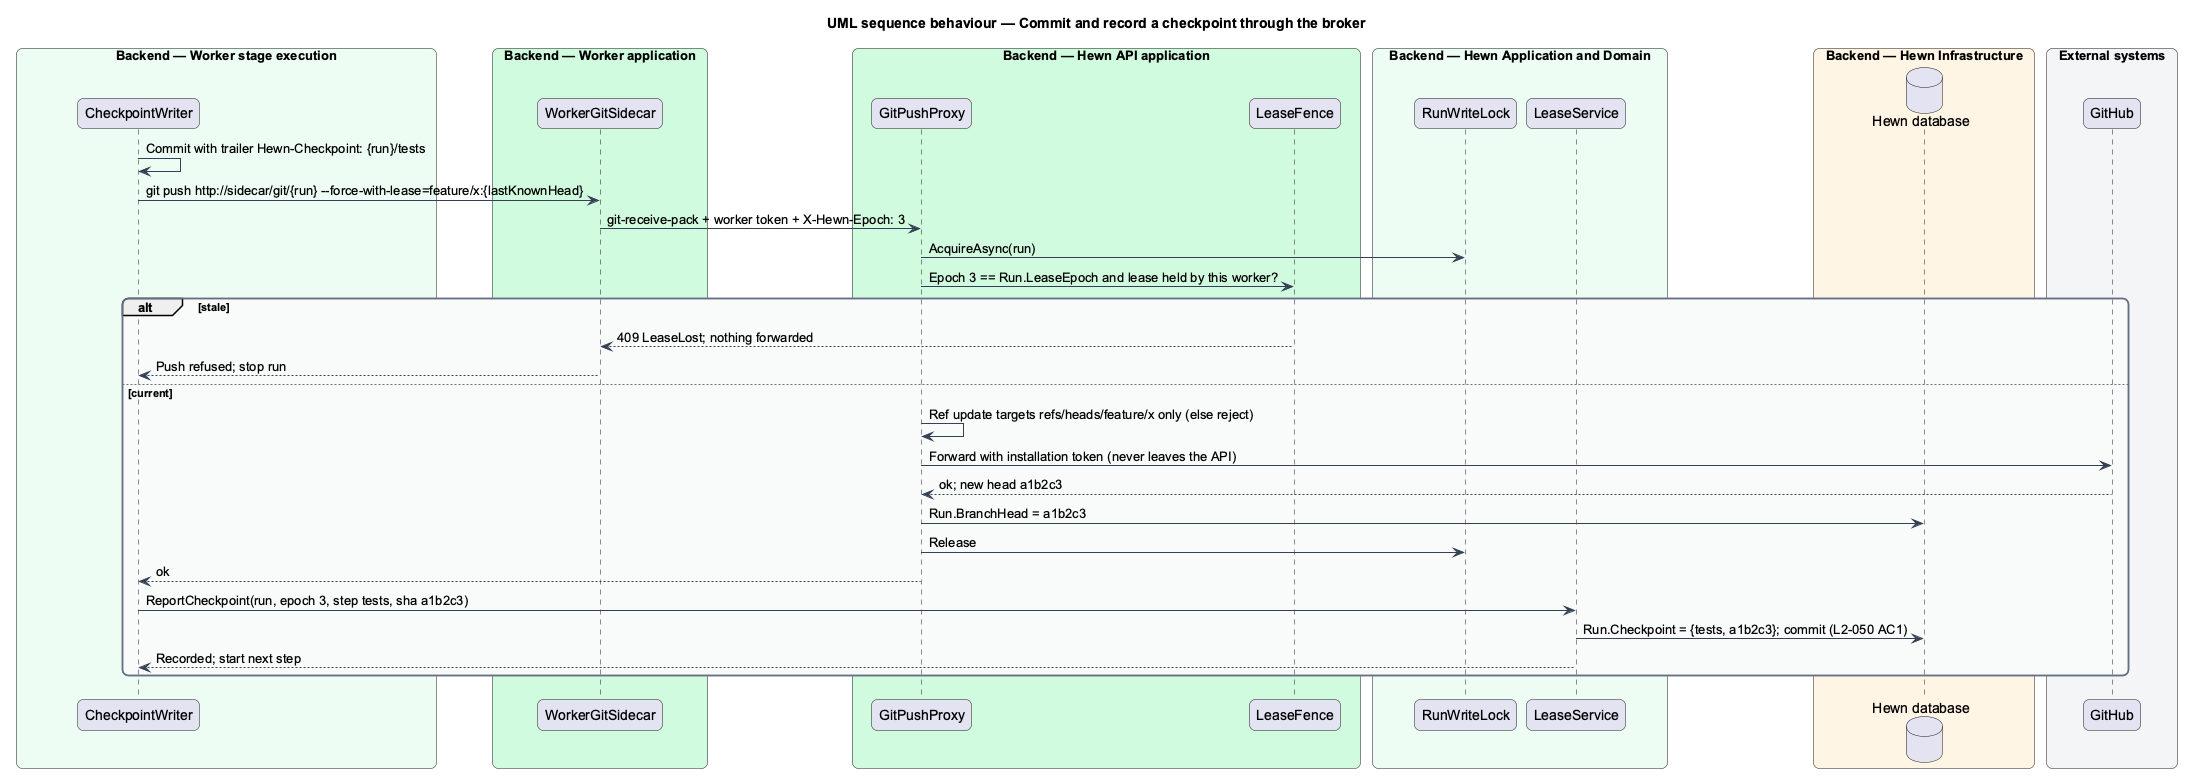
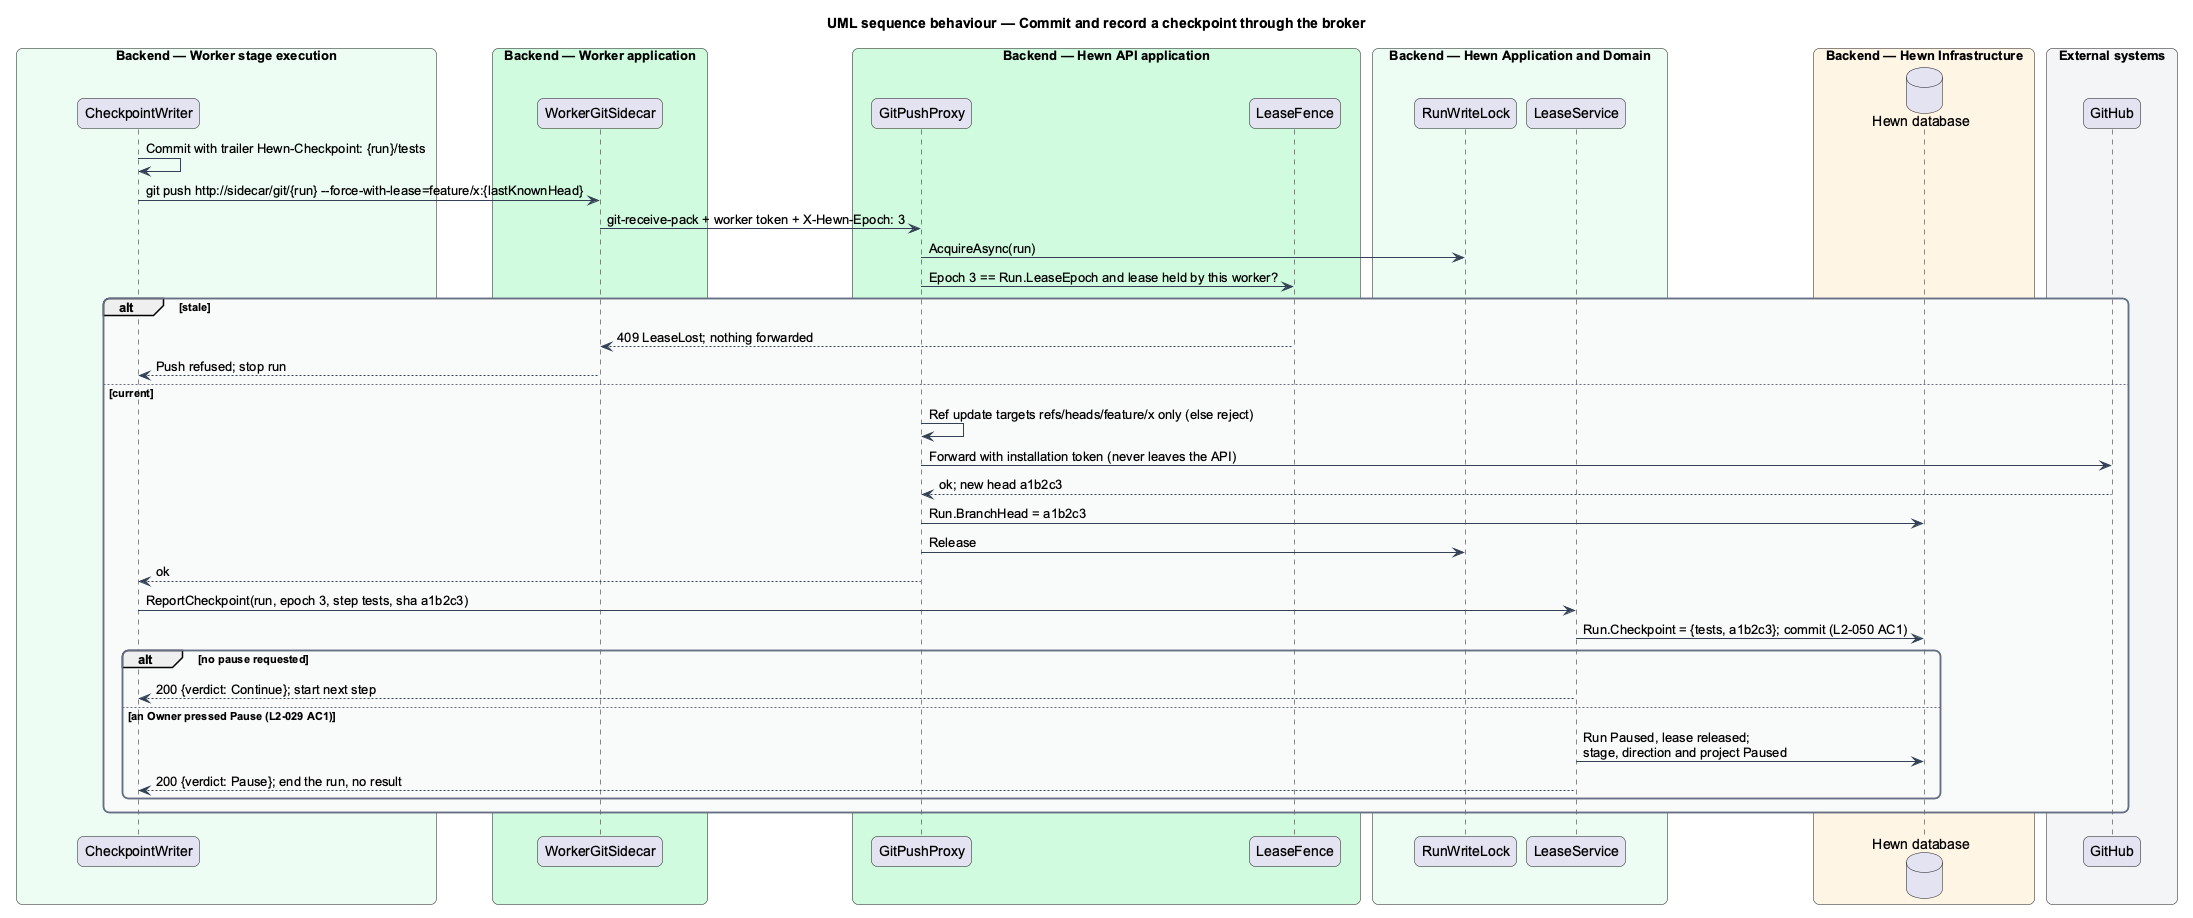
Record Pause at the checkpoint in the designs, ADR 0011 and the changelog
ADR 0011: Pause is a request on the direction that the worker's next
checkpoint answers, instead of a control channel that Cancel and Stop
all will need. The pause-resume and checkpoint sequences show the
checkpoint's verdict and the re-queued run; both designs record what
journey 6 built and what it leaves to journeys 7 and 8.

Traces to: L2-029, L2-050

diff --git a/docs/adr/0011-pause-takes-effect-at-the-next-checkpoint.md b/docs/adr/0011-pause-takes-effect-at-the-next-checkpoint.md
@@ -1,0 +1,54 @@
+# 0011. Pause takes effect at the next checkpoint, answered on the checkpoint call
+
+- **Status:** Accepted
+- **Date:** 2026-11-09
+- **Requirements:** L2-029, L2-050
+
+## Context
+
+L2-029 AC1 asks that, when an Owner presses Pause, the current step finishes, the direction becomes Paused and
+nothing new starts until Resume; AC2 that Resume continues from the next step. L2-050 AC3 asks that no completed
+step runs twice. The pause-resume-cancel-stop design sends a `PauseAfterStep` message over a `WorkerControlChannel`
+on the worker's SignalR connection. That channel does not exist yet: workers speak HTTP and poll (journey 1, part 2),
+and the worker already reports a checkpoint to the API at the end of every step.
+
+## Decision
+
+- **Pause is a request recorded on the direction.** `POST /api/projects/{projectId}/directions/{directionId}/pause`
+  (Owner policy) sets `Direction.PauseRequestedBy`, appends `PauseRequested {directionId, requestedBy}` and writes
+  "Pause requested by {login}" to the run log. The direction stays Running; Mission Control shows Pausing….
+- **The checkpoint answers it.** `POST /api/worker/runs/{id}/checkpoints` now answers 200
+  `{verdict: "Continue" | "Pause"}`. When a pause is pending, the checkpoint that ends the step in progress records
+  the checkpoint, writes "Step {n} finished · checkpoint · direction Paused" (with the short SHA when the worker
+  sends one), pauses the run (lease released, checkpoint kept), its stage, the direction (reason "Paused by an Owner",
+  with who and when) and the project, and answers `Pause`. The worker then ends the run without another step or a
+  result, and goes back to leasing.
+- **No step is waited for when none is running.** A run still waiting for a worker pauses at once. A stage that ends
+  while a pause is pending creates the next stage's run already paused, so the next stage does not start.
+- **Resume re-queues the same run.** `POST .../resume` (Owner policy) appends `DirectionResumed {directionId,
+  resumedBy}`, writes "Resumed by {login}", and sets the run back to Queued with its checkpoint, the stage, direction
+  and project to Running. The next lease bumps the epoch and starts after the checkpoint.
+- **A budget stop is not resumed by Resume.** A direction Paused with "Budget reached" answers 409 `budget_reached`:
+  only Raise and resume continues it (ADR 0010, journey 5). Other refusals: 409 `not_running` for Pause on a
+  direction with no queued or leased run, 409 `not_paused` for Resume on a direction that is not paused, 403 for
+  Viewers (AC5), 404 for another project's direction. Pressing Pause twice changes nothing.
+
+## Alternatives considered
+
+- **Build the `WorkerControlChannel` now**: the design's target, and Cancel and Stop all (AC3, AC4) need it to stop a
+  run within 10 seconds. Pause does not: it waits for the step to end, and the worker already calls the API at that
+  moment. Building a push channel for Pause alone would add a SignalR client to the worker and a delivery and
+  acknowledgement protocol that this journey does not otherwise need.
+- **Answer Pause on the heartbeat**: the heartbeat arrives mid-step, so the worker would still have to hold the
+  answer until the step ends; the checkpoint arrives exactly when the pause can take effect.
+- **Pause at the end of the stage instead of the step**: simpler for the worker, but L2-029 AC1 says the current
+  step, and stages can take hours.
+
+## Consequences
+
+- A pause takes effect within one step. A long step (an increment's test run, for example) delays it; the header
+  shows Pausing… with `aria-busy` until then.
+- When Cancel and Stop all arrive (journeys 7 and 8), the control channel can carry `PauseAfterStep` too, or Pause
+  can keep using the checkpoint answer; either way the API's pause and resume commands stay as they are.
+- A checkpoint report is now a write that may change direction state, so it takes the project's event lock when a
+  pause is pending, like any other state change.

diff --git a/docs/detailed-designs/pipeline/pause-resume-cancel-stop/README.md b/docs/detailed-designs/pipeline/pause-resume-cancel-stop/README.md
@@ -61,7 +61,7 @@ Both controllers send typed control messages through one channel that enforces t
 
 ### Behaviour — pause and resume
 
-Pause waits for the current step to finish and checkpoint (L2-029 AC1); Resume continues from the next step (AC2).
+Pause waits for the current step to finish and checkpoint (L2-029 AC1): the checkpoint's answer tells the worker to stop there. Resume queues the same run again, so it continues from the next step (AC2) and no completed step runs twice (L2-050 AC3).
 
 ![Sequence diagram: pause and resume](diagrams/sequence-pause-resume.png)
 
@@ -76,3 +76,29 @@ The run stops within 10 seconds, the direction is Cancelled, and open pull reque
 Every worker halts its active run within 10 seconds and leases nothing until Start workers (L2-029 AC4).
 
 ![Sequence diagram: stop and start all workers](diagrams/sequence-stop-all.png)
+
+## Decisions made while building Pause and Resume
+
+Journey 6 built Pause and Resume (L2-029 AC1, AC2, AC5). Cancel and Stop all come with journeys 7 and 8.
+
+- **Pause is answered on the checkpoint call, not a control channel** ([ADR 0011](../../../adr/0011-pause-takes-effect-at-the-next-checkpoint.md)).
+  `POST /api/projects/{projectId}/directions/{directionId}/pause` records the request (`PauseRequested`, "Pause
+  requested by {login}" in the run log). The worker's next checkpoint, the end of the step in progress, answers
+  `{verdict: "Pause"}`, and the run, stage, direction and project turn Paused with "Step {n} finished · checkpoint ·
+  direction Paused" in the log. `WorkerControlChannel`, `RunSupervisor` and `PauseAfterStep` are not built; Cancel
+  and Stop all need them to stop a run within 10 seconds.
+- **Routes sit under the project**, like every other project-scoped endpoint, so another project's direction is
+  404: `.../directions/{id}/pause` and `.../resume`, served by `ProjectsController` (no `DirectionControlsController`).
+- **No step to wait for:** a run still waiting for a worker pauses at once, and a stage that ends while a pause is
+  pending leaves the next stage's run paused, so it does not start.
+- **Resume re-queues the paused run** (`DirectionResumed`, "Resumed by {login}"): the next lease bumps the epoch and
+  starts after the checkpoint.
+- **Refusals:** 403 for Viewers; 409 `not_running` (Pause with no queued or leased run), `not_paused` (Resume on a
+  direction that is not paused) and `budget_reached` (a budget stop continues only through Raise and resume). Pause
+  twice is harmless.
+- **The header** follows the mocks: Pause on a running direction, Resume on a paused one, and the paused callout
+  "Paused by {login} at {time}". Between the two, the Pause button shows the design system's busy state
+  ("Pausing…", `aria-busy`), so no new mock was needed. `DirectionControlsComponent` is part of the project page's
+  header rather than a component of its own. Cancel is not shown until journey 7 builds it.
+- **Not built yet:** audit entries for Pause and Resume (the audit log is journey 32).
+

diff --git a/CHANGELOG.md b/CHANGELOG.md
@@ -14,6 +14,12 @@ and this project adheres to [Semantic Versioning](https://semver.org/spec/v2.0.0
 
 ### Added
 
+- Pause and resume a direction (journey 6, L2-029 AC1, AC2, AC5, L2-050 AC3): an Owner presses Pause on a running
+  direction; the step in progress finishes and checkpoints, then the direction is Paused ("Paused by … at …") and
+  nothing new starts. Resume continues the same run from the next step, and no completed step runs twice
+  (`POST /api/projects/{id}/directions/{d}/pause` and `/resume`, `PauseRequested`, `DirectionResumed`; ADR 0011).
+  Viewers see no control and get 403.
+
 - Raise budget and resume (journey 5, L2-053 AC3, L2-029 AC5): on a direction Paused with "Budget reached", an
   Owner enters a new budget above the spend and presses Raise and resume; the budget is raised and the direction
   resumes from the step after its checkpoint in one action
@@ -90,3 +96,8 @@ and this project adheres to [Semantic Versioning](https://semver.org/spec/v2.0.0
 - Architecture decision records 0001 to 0004 in `docs/adr/`.
 - Root documentation: README, license, contributing guide, code of conduct, security policy,
   support guide, agent guidance and GitHub templates.
+
+### Changed
+
+- The worker checkpoint endpoint answers 200 `{verdict: "Continue" | "Pause"}` instead of 204.
+

diff --git a/docs/detailed-designs/agent-runtime/worker-loop/README.md b/docs/detailed-designs/agent-runtime/worker-loop/README.md
@@ -118,6 +118,9 @@ Journey 1, part 2 built the loop, leases and fencing that L2-004 needs.
   processes with it, so the fake worker AGENTS.md describes is the real worker with a scripted executor.
 - **Checkpoints** carry a step number and an optional SHA; the git sidecar, the reconciler and the
   write broker come with the stages that push (part 3 onward).
+- **The checkpoint answers with a verdict** (journey 6): `{verdict: "Continue" | "Pause"}`. On `Pause` the run has
+  been paused at this checkpoint and its lease released; the worker ends the run without another step or a result
+  ([ADR 0011](../../../adr/0011-pause-takes-effect-at-the-next-checkpoint.md)).
 - **Failure text is redacted** before it is stored (`SecretRedactor`).
 - **Not built yet:** the Workers page and issued tokens, `WorkerChanged`, the git sidecar, the container
   image, `CheckpointReconciler` and the `RunWriteLock`.

diff --git a/docs/adr/README.md b/docs/adr/README.md
@@ -14,3 +14,4 @@ Read the ADRs that cover an area before changing it. New ADRs take the next numb
 | [0008](0008-feature-scope-is-a-recorded-decision.md) | A feature's UI scope is a recorded decision, and later directions keep every number | Accepted |
 | [0009](0009-live-progress-from-the-worker.md) | Live progress: workers name steps and batch log lines, and Hewn keeps a copy of each decision | Accepted |
 | [0010](0010-spend-is-metered-per-call-against-a-configured-price-table.md) | Spend is metered per model call against a configured price table, and the budget stops the run after the call that reaches it | Accepted |
+| [0011](0011-pause-takes-effect-at-the-next-checkpoint.md) | Pause takes effect at the next checkpoint, answered on the checkpoint call | Accepted |
